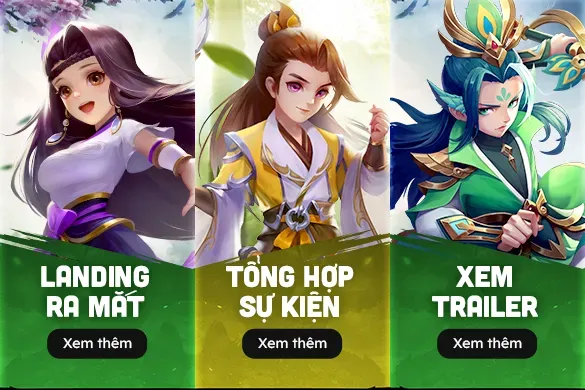
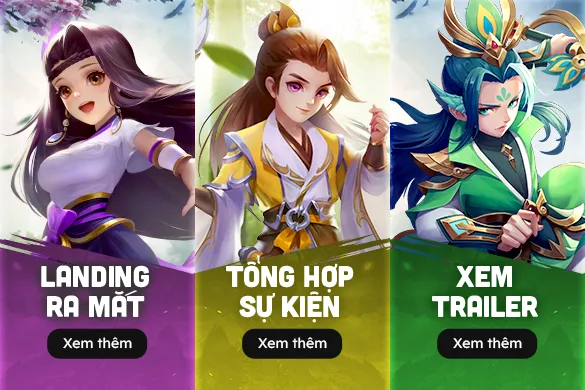
Update

diff --git a/Homepage/css/wstyle.min.css b/Homepage/css/wstyle.min.css
@@ -1,1 +1,1 @@
-body{background:url("../images/bg-sm.webp") no-repeat center top;background-size:100vw auto;background-color:var(--w-bg-color);overflow-x:hidden}.wcontainer{width:90%;margin-left:auto;margin-right:auto;overflow:hidden;max-width:1170px}.page-wrapper{width:100%;max-width:1920px}.text-vgp{color:#f60}.bg-primary{background-color:var(--w-primary)}.bg-secondary{background-color:var(--w-secondary)}.text-primary{color:var(--w-primary)}.text-secondary{color:var(--w-secondary)}.w-image-block,.w-image-ratio{max-width:100%;display:block}.w-image-ratio{position:relative;overflow:hidden}.w-image-ratio>.content{position:absolute;top:50%;left:50%;width:100%;height:100%;transform:translate(-50%, -50%);display:flex;justify-content:center;align-items:center}.w-image-inline{max-width:100%;display:inline-block}.w-image-button>img,.w-image-ratio>img,.w-image-inline>img,.w-image-block>img{display:block;width:100%;height:auto}.w-image-button{max-width:100%;display:block;border:none;padding:0 !important}.layout{grid-template-areas:"download download button button button button button button" "download download newsboard newsboard newsboard support support support" "feature feature feature feature news news news news"}.block-download{grid-area:download}.block-button{grid-area:button}.block-support{grid-area:support}.newsboard{grid-area:newsboard}.block-news{grid-area:news}.block-feature{grid-area:feature}.block-18{background:rgba(0,0,0,0) url("../images/img-pg18.webp") no-repeat center bottom scroll;background-size:100% 100%;aspect-ratio:585/274}.block-18>div{display:grid;grid-template-columns:1fr 1fr;height:33%;width:100%}.block-18>div a{text-indent:-9999px;display:block}#block-001{background-size:100% auto}.block-download-inside{background:url("../images/block-download.webp") no-repeat scroll;background-size:cover;border-radius:1em;position:absolute;width:calc(100% - .69em);height:82%;bottom:0;color:#fff;z-index:0}.block-download-inside>.wrapper a{font-size:1.25em;display:flex;justify-content:start;align-items:center;line-height:1;padding:0 0 0 2.5em;transition:all .36s ease;border-top:1px solid var(--w-border)}.block-download-inside>.wrapper a:nth-child(1){border:none}.block-download-inside>.wrapper a:hover{filter:drop-shadow(0 0 1em rgb(255, 255, 255))}.block-button a{background:rgba(0,0,0,0) url("../images/btn-big-m.webp") no-repeat scroll;background-size:400% auto;text-indent:-9999px}.block-button a:hover{filter:brightness(125%)}a.giftcode{background-position:0% 0%}a.fanpage{background-position:33.33% 0%}a.napxu{background-position:66.66% 0%}a.sukien{background-position:100% 0%}.block-support{background:rgba(0,0,0,0) url("../images/block-support.webp") no-repeat scroll;background-size:cover}.block-support a{background:rgba(0,0,0,0) url("../images/btn-support.webp") no-repeat scroll;background-size:400% auto;text-indent:-9999px}.block-support a:hover{filter:brightness(125%)}a.tanthu{background-position:0% 0%}a.camnang{background-position:33.33% 0%}a.vip{background-position:66.66% 0%}a.hotro{background-position:100% 0%}.block-news{background:rgba(0,0,0,0) url("../images/news.webp") center center no-repeat;background-size:cover}.news-list ul li{line-height:2.8em;height:2.8em;width:100%;overflow:hidden;border-bottom:1px dotted var(--w-secondary)}.news-list ul li a{display:grid;grid-template-columns:1.8em auto;width:100%;height:100%;color:#414141;white-space:nowrap}.news-list ul li a::before{content:"";display:block;width:.5em;height:.5em;background-color:var(--w-secondary);margin:1.15em .5em;transform:rotate(45deg)}.news-list ul li a:hover{color:var(--w-secondary)}@media(min-width: 1200px){.news-list ul li{line-height:3.4em;height:3.4em}.news-list ul li a::before{margin:1.35em .5em}}.block-feature a{background:rgba(0,0,0,0) url("../images/btn-event.webp") no-repeat scroll;background-size:300% auto;text-indent:-9999px}a.landing{background-position:0% 0%}a.tonghopsukien{background-position:50% 0%}a.trailer{background-position:100% 0%}a.hotro{background-position:100% 0%}.footer{background-size:100% auto}.footer-menu a{display:block;font-size:1em;line-height:1;color:#fff;opacity:.5;padding:0em .75em;border-left:1px solid #ccc}.footer-menu a:hover{opacity:1}.footer-menu a:first-child{border:none}.btn-wnav{filter:drop-shadow(0em 0em 0.5em rgba(255, 255, 255, 0.5));fill:var(--w-nav)}.offcanvas{position:absolute;width:100%;height:100%;background-color:var(--w-backdrop-color);filter:drop-shadow(0em 0em 0.5em rgba(0, 0, 0, 0.5));-webkit-backdrop-filter:blur(0.5em);backdrop-filter:blur(0.5em);opacity:0;transition:opacity .36s ease}.offcanvas.show{z-index:9999;opacity:1}.offcanvas.hide{z-index:-1}.offcanvas-inside{background-color:rgba(20,20,20,.8);border-radius:2em;margin:1em 0 0 1em;overflow:hidden;transform:translateX(-50%);transition:transform .36s ease}.offcanvas.show .offcanvas-inside{transform:translateX(0)}.block-icon{padding:1.25em;background-color:var(--w-primary)}.block-menu ul{width:90%;line-height:3em;margin:0 auto}.block-menu ul li{color:#fff;border-bottom:1px solid #222}@media(min-width: 1024px){.block-support::after{content:"";width:1px;height:100%;position:absolute;top:0%;left:50%;transform:translateX(-50%);background-color:var(--w-border);display:block}.block-support::before{content:"";width:1px;height:100%;position:absolute;top:0%;left:50%;transform:translateX(-50%) rotate(90deg);background-color:var(--w-border);display:block}}.block-float{position:fixed;transition:transform .36s ease,height .36s ease;z-index:99}.block-float .link a{display:flex;justify-content:center;align-items:center;text-transform:uppercase}.block-float:not(.minimize){background:rgba(0,0,0,0) url("../images/float/float-bg.webp") no-repeat center center;background-size:100% 100%;top:50%;right:0;transform:translateY(-50%)}.block-float:not(.minimize) .block-mini{display:none}.block-float.minimize{padding:0;bottom:0;right:0;transform:translateY(0);aspect-ratio:auto}.block-float.minimize>*{display:none}.block-float.minimize .block-mini{display:block}.wmodal{position:fixed;width:100%;height:100%;background-color:var(--w-backdrop-color);top:0;right:0;z-index:9999;display:flex;justify-content:center;align-items:center;transition:opacity .36s ease}.wmodal-content{transform:scale(1);transition:transform .5s ease}.wmodal:not(.show){opacity:0;z-index:-1}.wmodal:not(.show) .wmodal-content{transform:scale(0.8)}.wmodal>.wmodal-content>.wrap{background-color:var(--w-popup-color);border-radius:1em;overflow:hidden}.button-prev,.button-next{position:absolute;transform:translateY(-50%);z-index:100;opacity:.8}.button-prev>img,.button-next>img{width:100%;height:auto}@media(min-width: 1024px){body{background:var(--w-bg-color) url("../images/bg-footer.webp") no-repeat center bottom fixed;background-size:100vw auto;font-size:.8333vw}.page-wrapper{background:rgba(0,0,0,0) url("../images/bg-big.webp") no-repeat center top scroll;background-size:100% auto}.wcontainer{width:61%}#block-002{background:none}}.offcanvas{position:absolute;top:0;left:0;width:100%;height:100%;z-index:5}.offcanvas{position:absolute;width:100%;height:100%;background-color:var(--w-backdrop-color);opacity:1;transition:opacity .36s ease}.offcanvas-content{background-color:var(--w-offcanvas);opacity:1;transition:all .36s ease;overflow:hidden;height:100vh;filter:drop-shadow(0em 0em 0.5em rgba(0, 0, 0, 0.5))}.offcanvas-content>.icon{padding:1.5em;background-color:var(--w-primary);overflow:hidden;position:relative}.offcanvas-content>.icon>img{z-index:2;position:relative}.offcanvas-content>.icon::after{content:"";display:block;position:absolute;top:0;left:0;width:100%;height:100%;background:var(--w-primary) url("../images/bg-sm.jpg") no-repeat top center;background-size:cover;opacity:.3;z-index:0}.offcanvas-content .link a{display:flex;justify-content:center;align-items:center;border-bottom:dotted #ccc 1px}.offcanvas:not(.show){opacity:0;z-index:-1}.offcanvas:not(.show) .offcanvas-content{opacity:0;margin-left:-50%}.btn-login-vgp{background-color:var(--w-primary);border-radius:100em}.btn-login-vgp span.content{width:0;margin:0;transition:width .36s ease;overflow:hidden;white-space:nowrap}.btn-login-vgp:hover span.content{width:-moz-fit-content;width:fit-content;margin:0 .5em}.w-accordion-button{background:rgba(0,0,0,0) url("../images/character/accordion-button.png.jpg") no-repeat scroll;background-size:400% auto;width:6.8376%}.w-accordion-button[data-no="01"]{background-position:0% 0%}.w-accordion-button[data-no="02"]{background-position:33.33% 0%}.w-accordion-button[data-no="03"]{background-position:66.66% 0%}.w-accordion-button[data-no="04"]{background-position:100% 0%}.w-accordion .w-accordion-slide{transition:width .36s ease;overflow:hidden}.w-accordion .w-accordion-slide img{height:100%;width:auto;max-width:9999% !important}.w-accordion .w-accordion-slide:not(.active){width:0%}.w-accordion .w-accordion-slide.active{width:72.64%;height:100%}.animate__loop{animation-duration:2s;animation-timing-function:ease;animation-iteration-count:infinite}.animate__glow{animation-name:glow}@keyframes glow{0%{filter:brightness(1)}50%{filter:brightness(1.3)}100%{filter:brightness(1)}}.animate__bling{animation-name:bling}@keyframes bling{0%{filter:brightness(1);transform:scale(1)}50%{filter:brightness(1.3);transform:scale(1.05)}100%{filter:brightness(1);transform:scale(1)}}.animate__blingbling{animation-name:blingbling}@keyframes blingbling{0%{filter:brightness(1);transform:translateY(0)}50%{filter:brightness(1.3);transform:translateY(2%)}100%{filter:brightness(1);transform:translateY(0)}}.animate__laploe{animation-name:laploe}@keyframes laploe{0%{filter:brightness(1);opacity:1;transform:scale(1)}50%{filter:brightness(1.2);opacity:.5;transform:scale(0.95) rotate(3deg)}100%{filter:brightness(1);opacity:1;transform:scale(1)}}.animte__updown{animation-name:updown}@keyframes updown{0%{transform:translateY(0)}50%{transform:translateY(5%)}100%{transform:translateY(0)}}.e-btn-click{transition:all .36s ease}.e-btn-click:active{transform:scale(0.98)}.e-btn-hover-glow{transition:all .36s ease}.e-btn-hover-glow:hover,.w-image-button:hover{transform:scale(1.01);filter:brightness(1.1) drop-shadow(0 0 2em rgba(255, 255, 255, 0.15))}.character-slide{background:rgba(0,0,0,0) url("../images/slide/block-char.webp") no-repeat center bottom scroll;background-size:100% 100%;aspect-ratio:1170/600;border-radius:2em;box-shadow:0 0 2em rgba(0,0,0,.25);transform:scale(0.95)}.character-thumb-slide .swiper-slide:not(.swiper-slide-thumb-active) img{opacity:.5}.feature-slide .swiper-slide{border-radius:1em}.feature-slide .swiper-slide:not(.swiper-slide-active){background-color:#fff}.feature-slide .swiper-slide:not(.swiper-slide-active) img{opacity:.5}.feature-slide .button-prev,.feature-slide .button-next{position:absolute;top:50%;width:4em;transform:translateY(-50%)}.feature-slide .button-prev{left:.5em}.feature-slide .button-next{right:.5em}@media(min-width: 1024px){.feature-slide .button-prev,.feature-slide .button-next{width:6em}}#block-single .body-content{grid-area:content;background-color:var(--w-bodycontent);overflow:auto}#block-single .body-content .content p{line-height:1.75;margin:1em 0}#block-single .layout{grid-template-areas:"download download button button button button button button" "download download content content content content content content" "feature feature feature feature support support support support"}@media(min-width: 1024px){#block-single .block-download{max-height:33em}}/*# sourceMappingURL=wstyle.min.css.map */
+body{background:url("../images/bg-small.webp") no-repeat center top;background-size:100vw auto;background-color:var(--w-bg-color);overflow-x:hidden}.wcontainer{width:90%;margin-left:auto;margin-right:auto;overflow:hidden;max-width:1170px}.page-wrapper{width:100%;max-width:1920px}.text-vgp{color:#f60}.bg-primary{background-color:var(--w-primary)}.bg-secondary{background-color:var(--w-secondary)}.text-primary{color:var(--w-primary)}.text-secondary{color:var(--w-secondary)}.w-image-block,.w-image-ratio{max-width:100%;display:block}.w-image-ratio{position:relative;overflow:hidden}.w-image-ratio>.content{position:absolute;top:50%;left:50%;width:100%;height:100%;transform:translate(-50%, -50%);display:flex;justify-content:center;align-items:center}.w-image-inline{max-width:100%;display:inline-block}.w-image-button>img,.w-image-ratio>img,.w-image-inline>img,.w-image-block>img{display:block;width:100%;height:auto}.w-image-button{max-width:100%;display:block;border:none;padding:0 !important}.layout{grid-template-areas:"download download button button button button button button" "download download newsboard newsboard newsboard support support support" "feature feature feature feature news news news news"}.block-download{grid-area:download}.block-button{grid-area:button}.block-support{grid-area:support}.newsboard{grid-area:newsboard}.block-news{grid-area:news}.block-feature{grid-area:feature}.block-18{background:rgba(0,0,0,0) url("../images/img-pg18.webp") no-repeat center bottom scroll;background-size:100% 100%;aspect-ratio:585/274}.block-18>div{display:grid;grid-template-columns:1fr 1fr;height:33%;width:100%}.block-18>div a{text-indent:-9999px;display:block}#block-001{background-size:100% auto}.block-download-inside{background:url("../images/block-download.webp") no-repeat scroll;background-size:cover;border-radius:1em;position:absolute;width:calc(100% - .69em);height:82%;bottom:0;color:#fff;z-index:0}.block-download-inside>.wrapper a{font-size:1.25em;display:flex;justify-content:start;align-items:center;line-height:1;padding:0 0 0 2.5em;transition:all .36s ease;border-top:1px solid var(--w-border)}.block-download-inside>.wrapper a:nth-child(1){border:none}.block-download-inside>.wrapper a:hover{filter:drop-shadow(0 0 1em rgb(255, 255, 255))}.block-button a{background:rgba(0,0,0,0) url("../images/btn-big-m.webp") no-repeat scroll;background-size:400% auto;text-indent:-9999px}.block-button a:hover{filter:brightness(125%)}a.giftcode{background-position:0% 0%}a.fanpage{background-position:33.33% 0%}a.napxu{background-position:66.66% 0%}a.sukien{background-position:100% 0%}.block-support{background:rgba(0,0,0,0) url("../images/block-support.webp") no-repeat scroll;background-size:cover}.block-support a{background:rgba(0,0,0,0) url("../images/btn-support.webp") no-repeat scroll;background-size:400% auto;text-indent:-9999px}.block-support a:hover{filter:brightness(125%)}a.tanthu{background-position:0% 0%}a.camnang{background-position:33.33% 0%}a.vip{background-position:66.66% 0%}a.hotro{background-position:100% 0%}.block-news{background:rgba(0,0,0,0) url("../images/news.webp") center center no-repeat;background-size:cover}.news-list ul li{line-height:2.8em;height:2.8em;width:100%;overflow:hidden;border-bottom:1px dotted var(--w-secondary)}.news-list ul li a{display:grid;grid-template-columns:1.8em auto;width:100%;height:100%;color:#414141;white-space:nowrap}.news-list ul li a::before{content:"";display:block;width:.5em;height:.5em;background-color:var(--w-secondary);margin:1.15em .5em;transform:rotate(45deg)}.news-list ul li a:hover{color:var(--w-secondary)}@media(min-width: 1200px){.news-list ul li{line-height:3.4em;height:3.4em}.news-list ul li a::before{margin:1.35em .5em}}.block-feature a{background:rgba(0,0,0,0) url("../images/btn-event.webp") no-repeat scroll;background-size:300% auto;text-indent:-9999px}a.landing{background-position:0% 0%}a.tonghopsukien{background-position:50% 0%}a.trailer{background-position:100% 0%}a.hotro{background-position:100% 0%}.footer{background-size:100% auto}.footer-menu a{display:block;font-size:1em;line-height:1;color:#fff;opacity:.5;padding:0em .75em;border-left:1px solid #ccc}.footer-menu a:hover{opacity:1}.footer-menu a:first-child{border:none}.btn-wnav{filter:drop-shadow(0em 0em 0.5em rgba(255, 255, 255, 0.5));fill:var(--w-nav)}.offcanvas{position:absolute;width:100%;height:100%;background-color:var(--w-backdrop-color);filter:drop-shadow(0em 0em 0.5em rgba(0, 0, 0, 0.5));-webkit-backdrop-filter:blur(0.5em);backdrop-filter:blur(0.5em);opacity:0;transition:opacity .36s ease}.offcanvas.show{z-index:9999;opacity:1}.offcanvas.hide{z-index:-1}.offcanvas-inside{background-color:rgba(20,20,20,.8);border-radius:2em;margin:1em 0 0 1em;overflow:hidden;transform:translateX(-50%);transition:transform .36s ease}.offcanvas.show .offcanvas-inside{transform:translateX(0)}.block-icon{padding:1.25em;background-color:var(--w-primary)}.block-menu ul{width:90%;line-height:3em;margin:0 auto}.block-menu ul li{color:#fff;border-bottom:1px solid #222}@media(min-width: 1024px){.block-support::after{content:"";width:1px;height:100%;position:absolute;top:0%;left:50%;transform:translateX(-50%);background-color:var(--w-border);display:block}.block-support::before{content:"";width:1px;height:100%;position:absolute;top:0%;left:50%;transform:translateX(-50%) rotate(90deg);background-color:var(--w-border);display:block}}.block-float{position:fixed;transition:transform .36s ease,height .36s ease;z-index:99}.block-float .link a{display:flex;justify-content:center;align-items:center;text-transform:uppercase}.block-float:not(.minimize){background:rgba(0,0,0,0) url("../images/float/float-bg.webp") no-repeat center center;background-size:100% 100%;top:50%;right:0;transform:translateY(-50%)}.block-float:not(.minimize) .block-mini{display:none}.block-float.minimize{padding:0;bottom:0;right:0;transform:translateY(0);aspect-ratio:auto}.block-float.minimize>*{display:none}.block-float.minimize .block-mini{display:block}.wmodal{position:fixed;width:100%;height:100%;background-color:var(--w-backdrop-color);top:0;right:0;z-index:9999;display:flex;justify-content:center;align-items:center;transition:opacity .36s ease}.wmodal-content{transform:scale(1);transition:transform .5s ease}.wmodal:not(.show){opacity:0;z-index:-1}.wmodal:not(.show) .wmodal-content{transform:scale(0.8)}.wmodal>.wmodal-content>.wrap{background-color:var(--w-popup-color);border-radius:1em;overflow:hidden}.button-prev,.button-next{position:absolute;transform:translateY(-50%);z-index:100;opacity:.8}.button-prev>img,.button-next>img{width:100%;height:auto}@media(min-width: 1024px){body{background:var(--w-bg-color) url("../images/bg-footer.webp") no-repeat center bottom fixed;background-size:100vw auto;font-size:.8333vw}.page-wrapper{background:rgba(0,0,0,0) url("../images/bg-big.webp") no-repeat center top scroll;background-size:100% auto}.wcontainer{width:61%}#block-002{background:none}}.offcanvas{position:absolute;top:0;left:0;width:100%;height:100%;z-index:5}.offcanvas{position:absolute;width:100%;height:100%;background-color:var(--w-backdrop-color);opacity:1;transition:opacity .36s ease}.offcanvas-content{background-color:var(--w-offcanvas);opacity:1;transition:all .36s ease;overflow:hidden;height:100vh;filter:drop-shadow(0em 0em 0.5em rgba(0, 0, 0, 0.5))}.offcanvas-content>.icon{padding:1.5em;background-color:var(--w-primary);overflow:hidden;position:relative}.offcanvas-content>.icon>img{z-index:2;position:relative}.offcanvas-content>.icon::after{content:"";display:block;position:absolute;top:0;left:0;width:100%;height:100%;background:var(--w-primary) url("../images/bg-sm.jpg") no-repeat top center;background-size:cover;opacity:.3;z-index:0}.offcanvas-content .link a{display:flex;justify-content:center;align-items:center;border-bottom:dotted #ccc 1px}.offcanvas:not(.show){opacity:0;z-index:-1}.offcanvas:not(.show) .offcanvas-content{opacity:0;margin-left:-50%}.btn-login-vgp{background-color:var(--w-primary);border-radius:100em}.btn-login-vgp span.content{width:0;margin:0;transition:width .36s ease;overflow:hidden;white-space:nowrap}.btn-login-vgp:hover span.content{width:-moz-fit-content;width:fit-content;margin:0 .5em}.w-accordion-button{background:rgba(0,0,0,0) url("../images/character/accordion-button.png.jpg") no-repeat scroll;background-size:400% auto;width:6.8376%}.w-accordion-button[data-no="01"]{background-position:0% 0%}.w-accordion-button[data-no="02"]{background-position:33.33% 0%}.w-accordion-button[data-no="03"]{background-position:66.66% 0%}.w-accordion-button[data-no="04"]{background-position:100% 0%}.w-accordion .w-accordion-slide{transition:width .36s ease;overflow:hidden}.w-accordion .w-accordion-slide img{height:100%;width:auto;max-width:9999% !important}.w-accordion .w-accordion-slide:not(.active){width:0%}.w-accordion .w-accordion-slide.active{width:72.64%;height:100%}.animate__loop{animation-duration:2s;animation-timing-function:ease;animation-iteration-count:infinite}.animate__glow{animation-name:glow}@keyframes glow{0%{filter:brightness(1)}50%{filter:brightness(1.3)}100%{filter:brightness(1)}}.animate__bling{animation-name:bling}@keyframes bling{0%{filter:brightness(1);transform:scale(1)}50%{filter:brightness(1.3);transform:scale(1.05)}100%{filter:brightness(1);transform:scale(1)}}.animate__blingbling{animation-name:blingbling}@keyframes blingbling{0%{filter:brightness(1);transform:translateY(0)}50%{filter:brightness(1.3);transform:translateY(2%)}100%{filter:brightness(1);transform:translateY(0)}}.animate__laploe{animation-name:laploe}@keyframes laploe{0%{filter:brightness(1);opacity:1;transform:scale(1)}50%{filter:brightness(1.2);opacity:.5;transform:scale(0.95) rotate(3deg)}100%{filter:brightness(1);opacity:1;transform:scale(1)}}.animte__updown{animation-name:updown}@keyframes updown{0%{transform:translateY(0)}50%{transform:translateY(5%)}100%{transform:translateY(0)}}.e-btn-click{transition:all .36s ease}.e-btn-click:active{transform:scale(0.98)}.e-btn-hover-glow{transition:all .36s ease}.e-btn-hover-glow:hover,.w-image-button:hover{transform:scale(1.01);filter:brightness(1.1) drop-shadow(0 0 2em rgba(255, 255, 255, 0.15))}.character-slide{background:rgba(0,0,0,0) url("../images/slide/block-char.webp") no-repeat center bottom scroll;background-size:100% 100%;aspect-ratio:1170/600;border-radius:2em;box-shadow:0 0 2em rgba(0,0,0,.25);transform:scale(0.95)}.character-thumb-slide .swiper-slide:not(.swiper-slide-thumb-active) img{opacity:.5}.feature-slide .swiper-slide{border-radius:1em}.feature-slide .swiper-slide:not(.swiper-slide-active){background-color:#fff}.feature-slide .swiper-slide:not(.swiper-slide-active) img{opacity:.5}.feature-slide .button-prev,.feature-slide .button-next{position:absolute;top:50%;width:4em;transform:translateY(-50%)}.feature-slide .button-prev{left:.5em}.feature-slide .button-next{right:.5em}@media(min-width: 1024px){.feature-slide .button-prev,.feature-slide .button-next{width:6em}}#block-single .body-content{grid-area:content;background-color:var(--w-bodycontent);overflow:auto}#block-single .body-content .content p{line-height:1.75;margin:1em 0}#block-single .layout{grid-template-areas:"download download button button button button button button" "download download content content content content content content" "feature feature feature feature support support support support"}@media(min-width: 1024px){#block-single .block-download{max-height:33em}}/*# sourceMappingURL=wstyle.min.css.map */

diff --git a/Homepage/output.css b/Homepage/output.css
@@ -676,16 +676,16 @@ Ensure the default browser behavior of the `hidden` attribute.
   margin-top: 0px;
 }
 
-.mt-\[em\]{
-  margin-top: em;
+.mt-\[20em\]{
+  margin-top: 20em;
 }
 
 .mt-\[14em\]{
   margin-top: 14em;
 }
 
-.mt-\[29\.25em\]{
-  margin-top: 29.25em;
+.mt-\[0em\]{
+  margin-top: 0em;
 }
 
 .mt-\[8\.5em\]{
@@ -706,10 +706,6 @@ Ensure the default browser behavior of the `hidden` attribute.
 
 .mt-\[5em\]{
   margin-top: 5em;
-}
-
-.mt-\[0em\]{
-  margin-top: 0em;
 }
 
 .mt-2{
@@ -852,8 +848,8 @@ Ensure the default browser behavior of the `hidden` attribute.
   height: 5em;
 }
 
-.h-\[45em\]{
-  height: 45em;
+.h-\[46em\]{
+  height: 46em;
 }
 
 .h-\[18em\]{
@@ -882,6 +878,10 @@ Ensure the default browser behavior of the `hidden` attribute.
 
 .w-\[3em\]{
   width: 3em;
+}
+
+.w-\[17\.5em\]{
+  width: 17.5em;
 }
 
 .w-\[13em\]{
@@ -2525,10 +2525,10 @@ Ensure the default browser behavior of the `hidden` attribute.
   /*26px in sm*/
   font-family: "Lexend", sans-serif;
   color: #414141;
-  --w-primary: #0e9135;
-  --w-secondary: #900;
+  --w-primary: #850d7f;
+  --w-secondary: rgb(21, 179, 48);
   --w-active: #009999;
-  --w-bg-color: #eee;
+  --w-bg-color: #fff;
   --w-offcanvas: #fff;
   --w-vgp: #ff6600;
   --w-nav: #fff;
@@ -2621,8 +2621,8 @@ Ensure the default browser behavior of the `hidden` attribute.
     grid-column: span 6 / span 6;
   }
 
-  .lg\:mt-\[9em\]{
-    margin-top: 9em;
+  .lg\:mt-\[6\.5em\]{
+    margin-top: 6.5em;
   }
 
   .lg\:mt-\[5em\]{
@@ -2657,8 +2657,8 @@ Ensure the default browser behavior of the `hidden` attribute.
     display: none;
   }
 
-  .lg\:h-\[53em\]{
-    height: 53em;
+  .lg\:h-\[50em\]{
+    height: 50em;
   }
 
   .lg\:w-\[15em\]{
@@ -2699,6 +2699,10 @@ Ensure the default browser behavior of the `hidden` attribute.
 
   .lg\:p-\[2em\]{
     padding: 2em;
+  }
+
+  .lg\:pl-\[50em\]{
+    padding-left: 50em;
   }
 
   .lg\:pr-\[1em\]{

diff --git a/Homepage/index.html b/Homepage/index.html
@@ -81,7 +81,7 @@
           data-target="w-offcanvas">
           <svg
             class="w-full"
-            fill="#0e9135"
+            fill="#850d7f"
             xmlns="http://www.w3.org/2000/svg"
             viewBox="0 0 24 24">
             <path
@@ -92,10 +92,10 @@
 
       <!-- 001 -->
       <div class="wcontainer">
-        <div class="w-full h-[45em] lg:h-[53em] overflow-hidden">
+        <div class="w-full h-[46em] lg:h-[50em] lg:pl-[50em] overflow-hidden">
           <!-- logo -->
           <div
-            class="w-image-block w-[15em] mt-[em] lg:w-[30em] lg:mt-[9em] mx-auto">
+            class="w-image-block w-[17.5em] mt-[20em] lg:w-[30em] lg:mt-[6.5em] mx-auto">
             <img src="./images/game-logo.webp" alt="" />
           </div>
           <!-- <button
@@ -105,7 +105,7 @@
             <img src="./images/btn-trailer.gif" alt="" />
           </button> -->
           <!-- 18+ -->
-          <div class="w-[14em] mx-auto mt-[29.25em] lg:w-[20em] lg:mt-[0em]">
+          <div class="w-[14em] mx-auto mt-[0em] lg:w-[20em] lg:mt-[0em]">
             <div class="block-18">
               <div class="">
                 <a href="#">Apple</a>

diff --git a/Homepage/wstyle/_style.scss b/Homepage/wstyle/_style.scss
@@ -1,5 +1,5 @@
 body {
-  background: url("../images/bg-sm.webp") no-repeat center top;
+  background: url("../images/bg-small.webp") no-repeat center top;
   background-size: 100vw auto;
   background-color: var(--w-bg-color);
   overflow-x: hidden;
